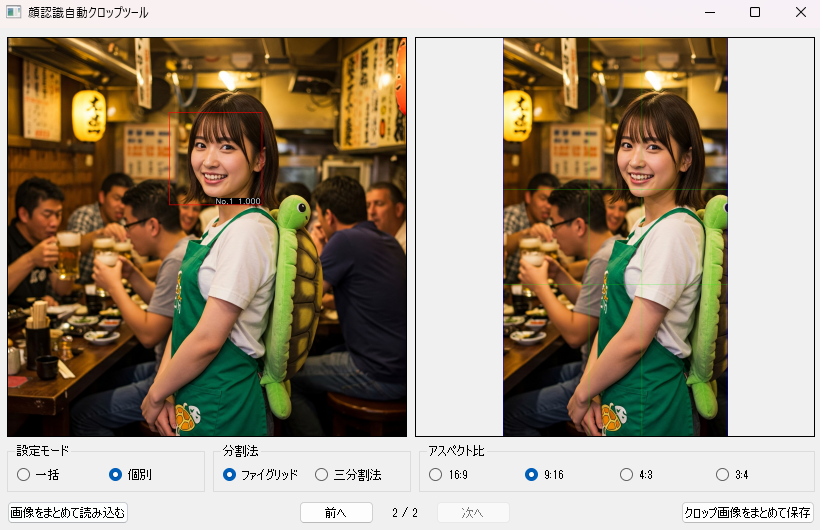
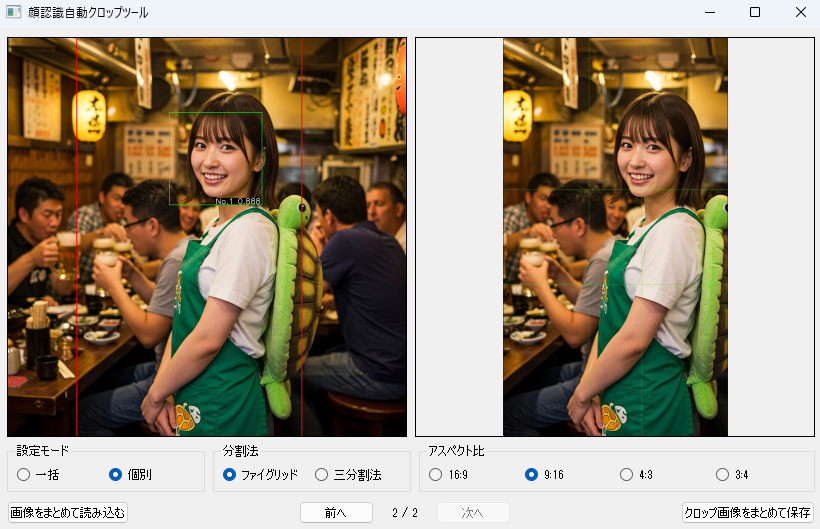
README更新

diff --git a/README.md b/README.md
@@ -36,6 +36,7 @@
   - **三分割法（Rule of Thirds）**: 1:1:1 の比率で分割し、交点や線上に被写体を配置。
   - **ファイグリッド（Phi Grid / 黄金比）**: 1:0.618:1 の比率で分割し、より中央に被写体を集める構図。
 - 選択した構図法に基づき、目の位置や顔の中心を最適なラインに自動調整
+- **顔の向きを検出し、視線の先に空間を空けるようにクロップ位置を自動調整**
 - シンプルなGUIインターフェイスで簡単操作
   - 一括設定 / 個別設定モード
     - 一括モード: 全ての画像に同一設定（アスペクト比・構図法）を適用
@@ -127,20 +128,20 @@ python run.py
 
 複数の顔が検出された場合、以下の3つの要素を考慮して最適な顔を選択します：
 
-1. **顔のサイズ評価 (40%)**：
-   - 顔の面積（幅×高さ）が大きいほど高スコア
-   - 計算式： `size_score = (顔の面積) / (検出された最大の顔の面積)`
-   - 大きい顔ほど主要な被写体である可能性が高いという考えに基づく
+1.  **顔のサイズ評価 (40%)**：
+    -   顔の面積（幅×高さ）が大きいほど高スコア
+    -   計算式（概念）： `size_score = (顔の面積) / (検出された最大の顔の面積)`
+    -   大きい顔ほど主要な被写体である可能性が高いという考えに基づく
 
-2. **中央度評価 (40%)**：
-   - 顔が画像の中心に近いほど高スコア
-   - 計算式： `center_score = 1.0 - (中心からの距離) / (検出された最も遠い顔の距離)`
-   - 中央に位置する顔ほど主要な被写体である可能性が高いという考えに基づく
+2.  **中央度評価 (40%)**：
+    -   顔が画像の中心に近いほど高スコア
+    -   計算式（概念）： `center_score = 1.0 - (顔の中心と画像中心の距離) / (画像中心から最も遠い角までの距離)`
+    -   中央に位置する顔ほど主要な被写体である可能性が高いという考えに基づく
 
-3. **鮮明度評価 (20%)**：
-   - 顔がより鮮明であるほど高スコア
-   - 計算式： `sharpness_score = (顔領域の鮮明度) / (検出された最も鮮明な顔の鮮明度)`
-   - 鮮明度はラプラシアンフィルタを使用して顔領域のエッジの強さを測定
+3.  **鮮明度評価 (20%)**：
+    -   顔がより鮮明であるほど高スコア
+    -   計算式（概念）： `sharpness_score = (顔領域の鮮明度) / (検出された最も鮮明な顔の鮮明度)`
+    -   鮮明度はラプラシアンフィルタを使用して顔領域のエッジの強さを測定
 
 **最終スコア算出式**：
 ```
@@ -152,7 +153,7 @@ total_score = (0.4 × size_score) + (0.4 × center_score) + (0.2 × sharpness_sc
 ### 顔検出処理の最適化
 
 - 顔領域を10%拡張して認識精度を向上
-- 複数の顔が検出された場合は最も大きい顔を優先
+- 複数の顔が検出された場合は上記のスコアリングに基づいて最適な顔を選択
 - 顔の中心位置と大きさを正確に特定
 
 ### 視覚的フィードバック機能
@@ -163,7 +164,7 @@ total_score = (0.4 × size_score) + (0.4 × center_score) + (0.2 × sharpness_sc
 </div>
 
 - **顔の矩形表示**：
-  - クロップの基準となった主要な顔：太い赤色の矩形（線幅2）で表示
+  - クロップの基準となった主要な顔（スコア最高）：**緑色**の矩形（線幅2）で表示
   - その他の検出された顔：灰色の矩形（線幅2）で表示
   - 表示用画像のみに矩形を描画し、保存画像には描画しない
 
@@ -172,8 +173,12 @@ total_score = (0.4 × size_score) + (0.4 × center_score) + (0.2 × sharpness_sc
   - スコア表示は黒背景に白文字で矩形の右下に配置
   - スコア値が高いほどクロップの基準として優先される顔であることを示す
 
+- **クロップ領域の表示**:
+  - **左側の元画像プレビュー**に、**赤色の太い矩形**で最終的なクロップ領域を表示。
+  - どの部分が切り出されるかを事前に確認可能。
+
 - **構図グリッドの表示**：
-  - 緑色の線でクロップ後の**選択中**の構図ライン（三分割法またはファイグリッド）を表示。
+  - **右側のクロップ後プレビュー**に、緑色の線で選択中の構図ライン（三分割法またはファイグリッド）を表示。
   - 顔の配置がどのラインに合わせられているかを視覚的に確認可能。
 
 ## 構図の最適化
@@ -196,11 +201,12 @@ total_score = (0.4 × size_score) + (0.4 × center_score) + (0.2 × sharpness_sc
 
 ### 自動適用プロセス
 
-1. 顔検出により顔の位置と大きさを特定。
-2. 顔の形状から目の位置を推定し、縦方向の基準点を決定。
-3. 選択された構図法（三分割法またはファイグリッド）の上部ラインに基準点が来るようにクロップ位置を計算。
-4. 顔の中心が、選択された構図法の左右どちらの縦ラインに近いかを判定。
-5. 近い方のラインに顔の中心が来るようにクロップ位置を水平方向に調整。
+1.  顔検出により顔の位置と大きさを特定。
+2.  顔の形状から目の位置を推定し、縦方向の基準点を決定。
+3.  選択された構図法（三分割法またはファイグリッド）の上部ラインに基準点が来るようにクロップ位置を計算。
+4.  顔の中心が、選択された構図法の左右どちらの縦ラインに近いかを判定。
+5.  近い方のラインに顔の中心が来るようにクロップ位置を水平方向に調整。
+    **さらに、顔が左右どちらかを向いている場合は、視線の先に空間ができるように調整します（例：右向きなら顔を左のラインに、左向きなら顔を右のラインに配置）。**
 
 ## 制約事項
 
